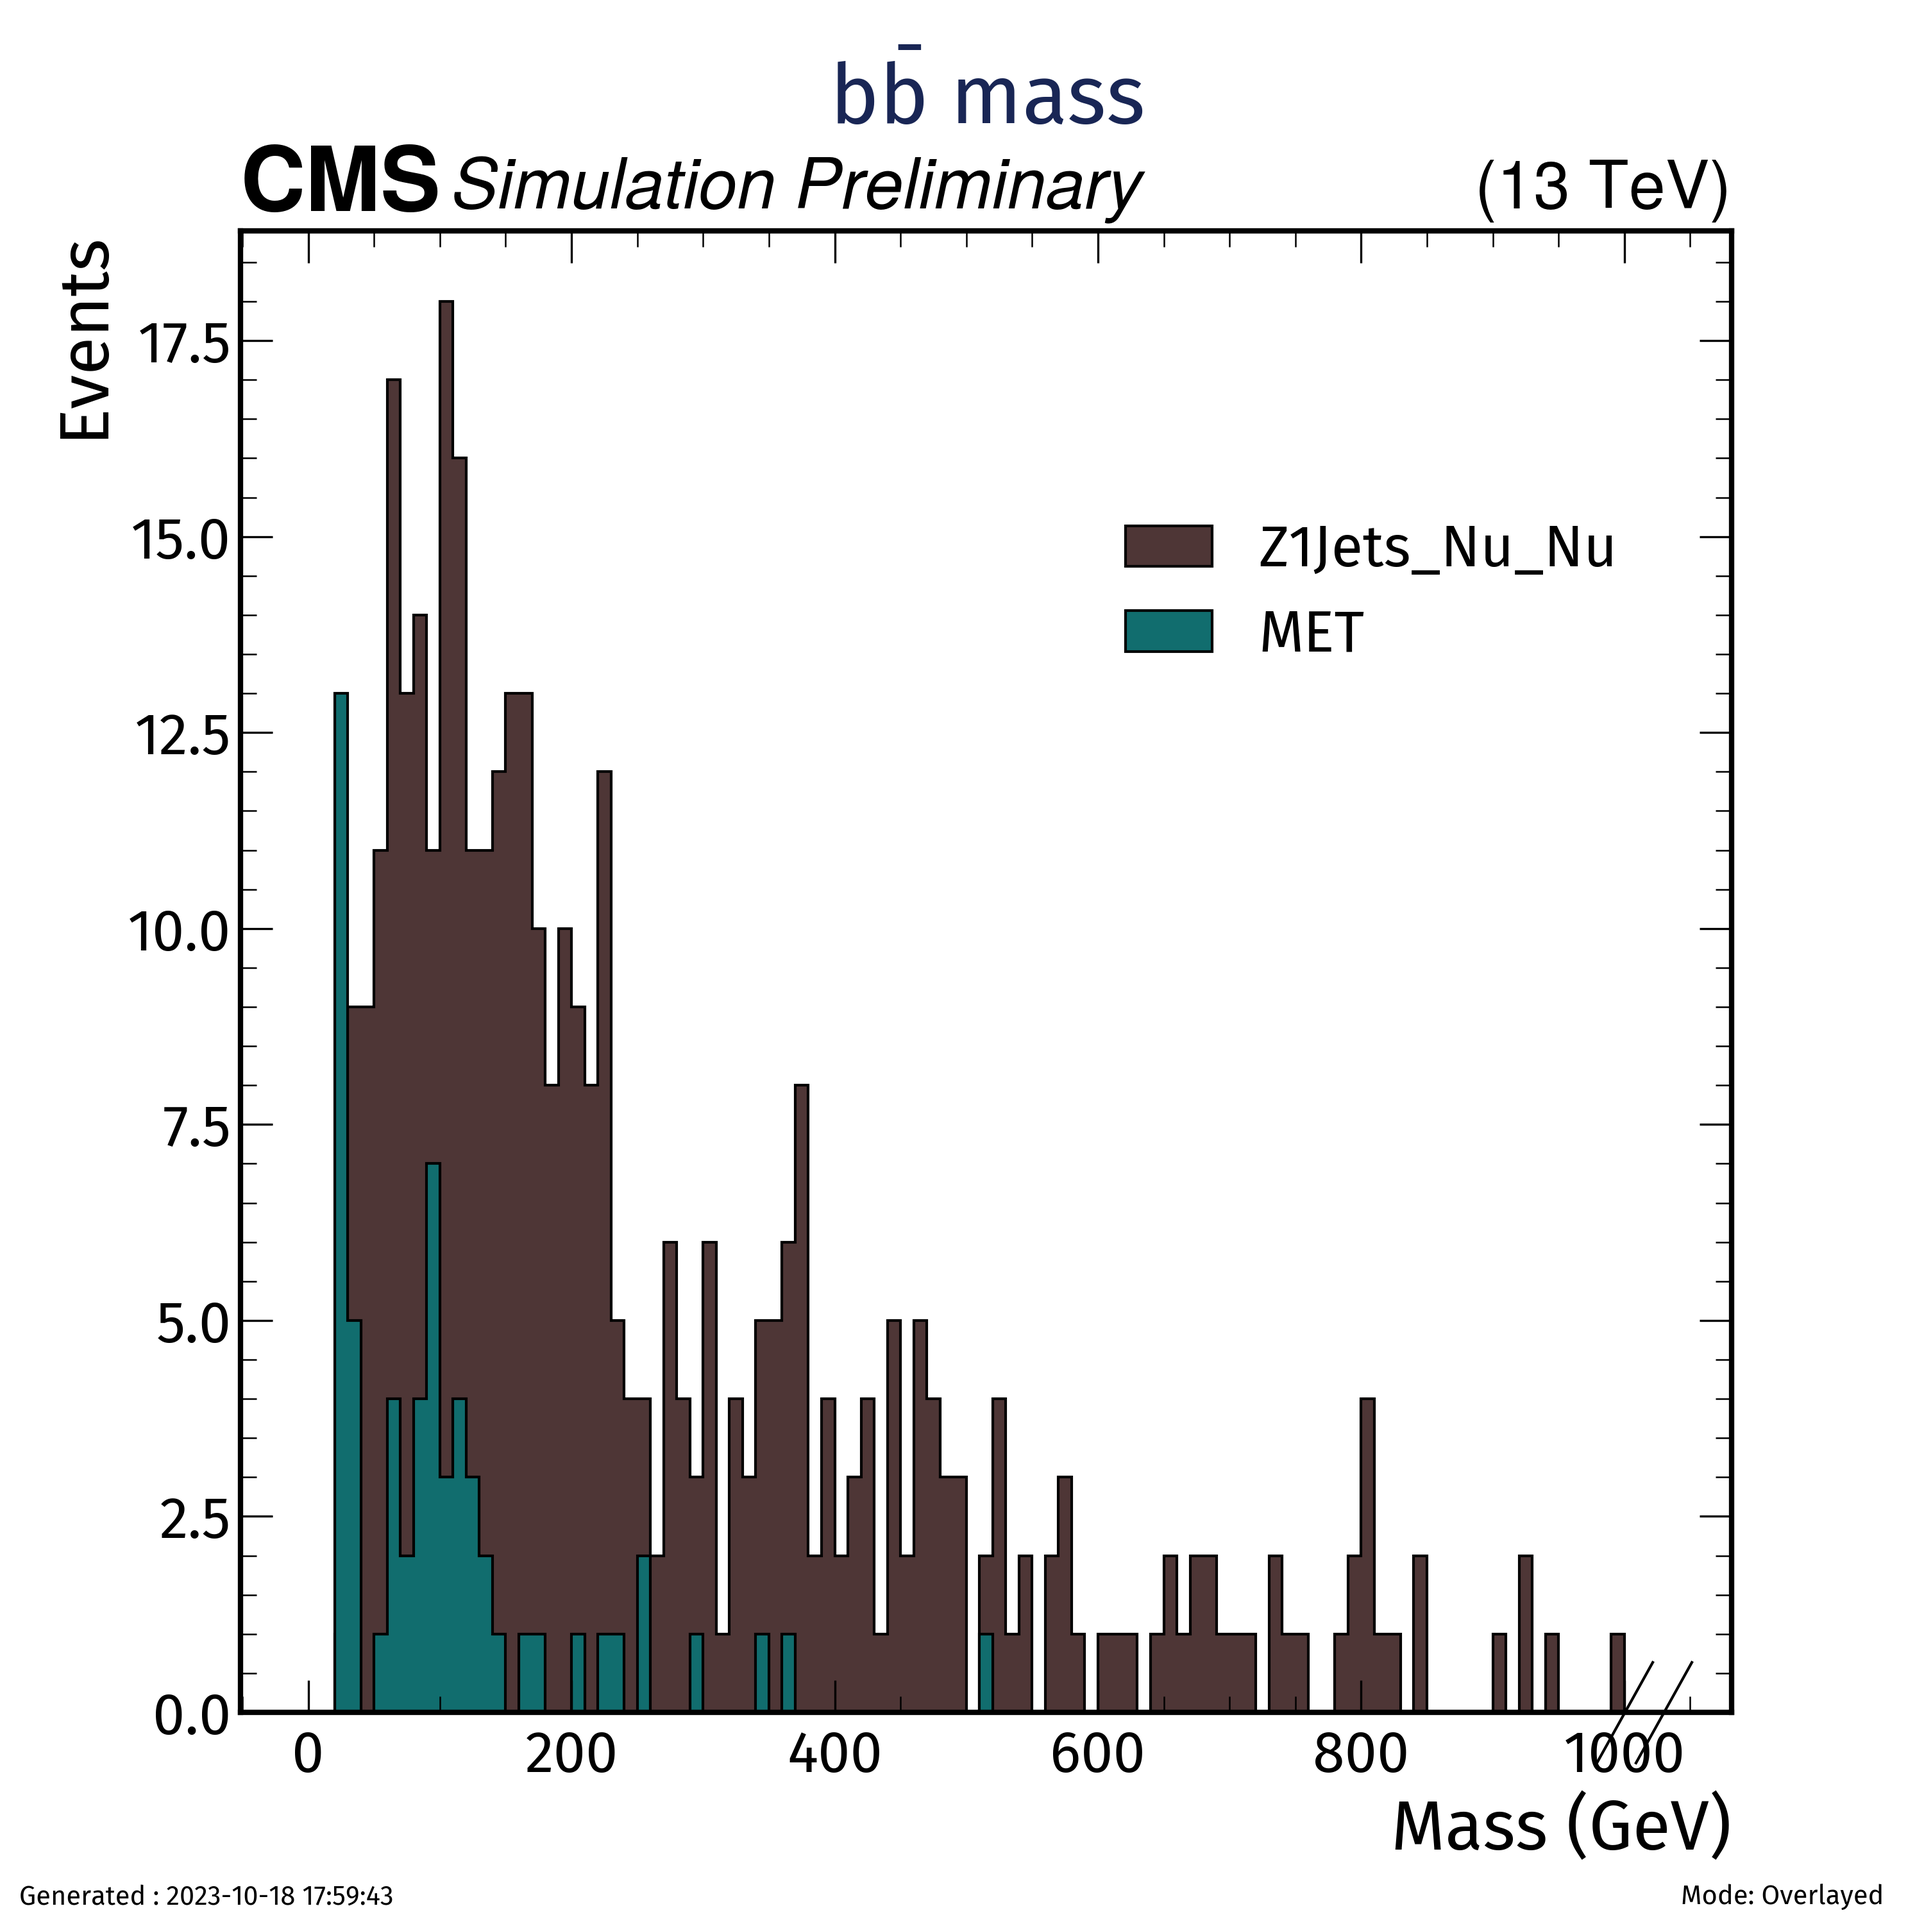
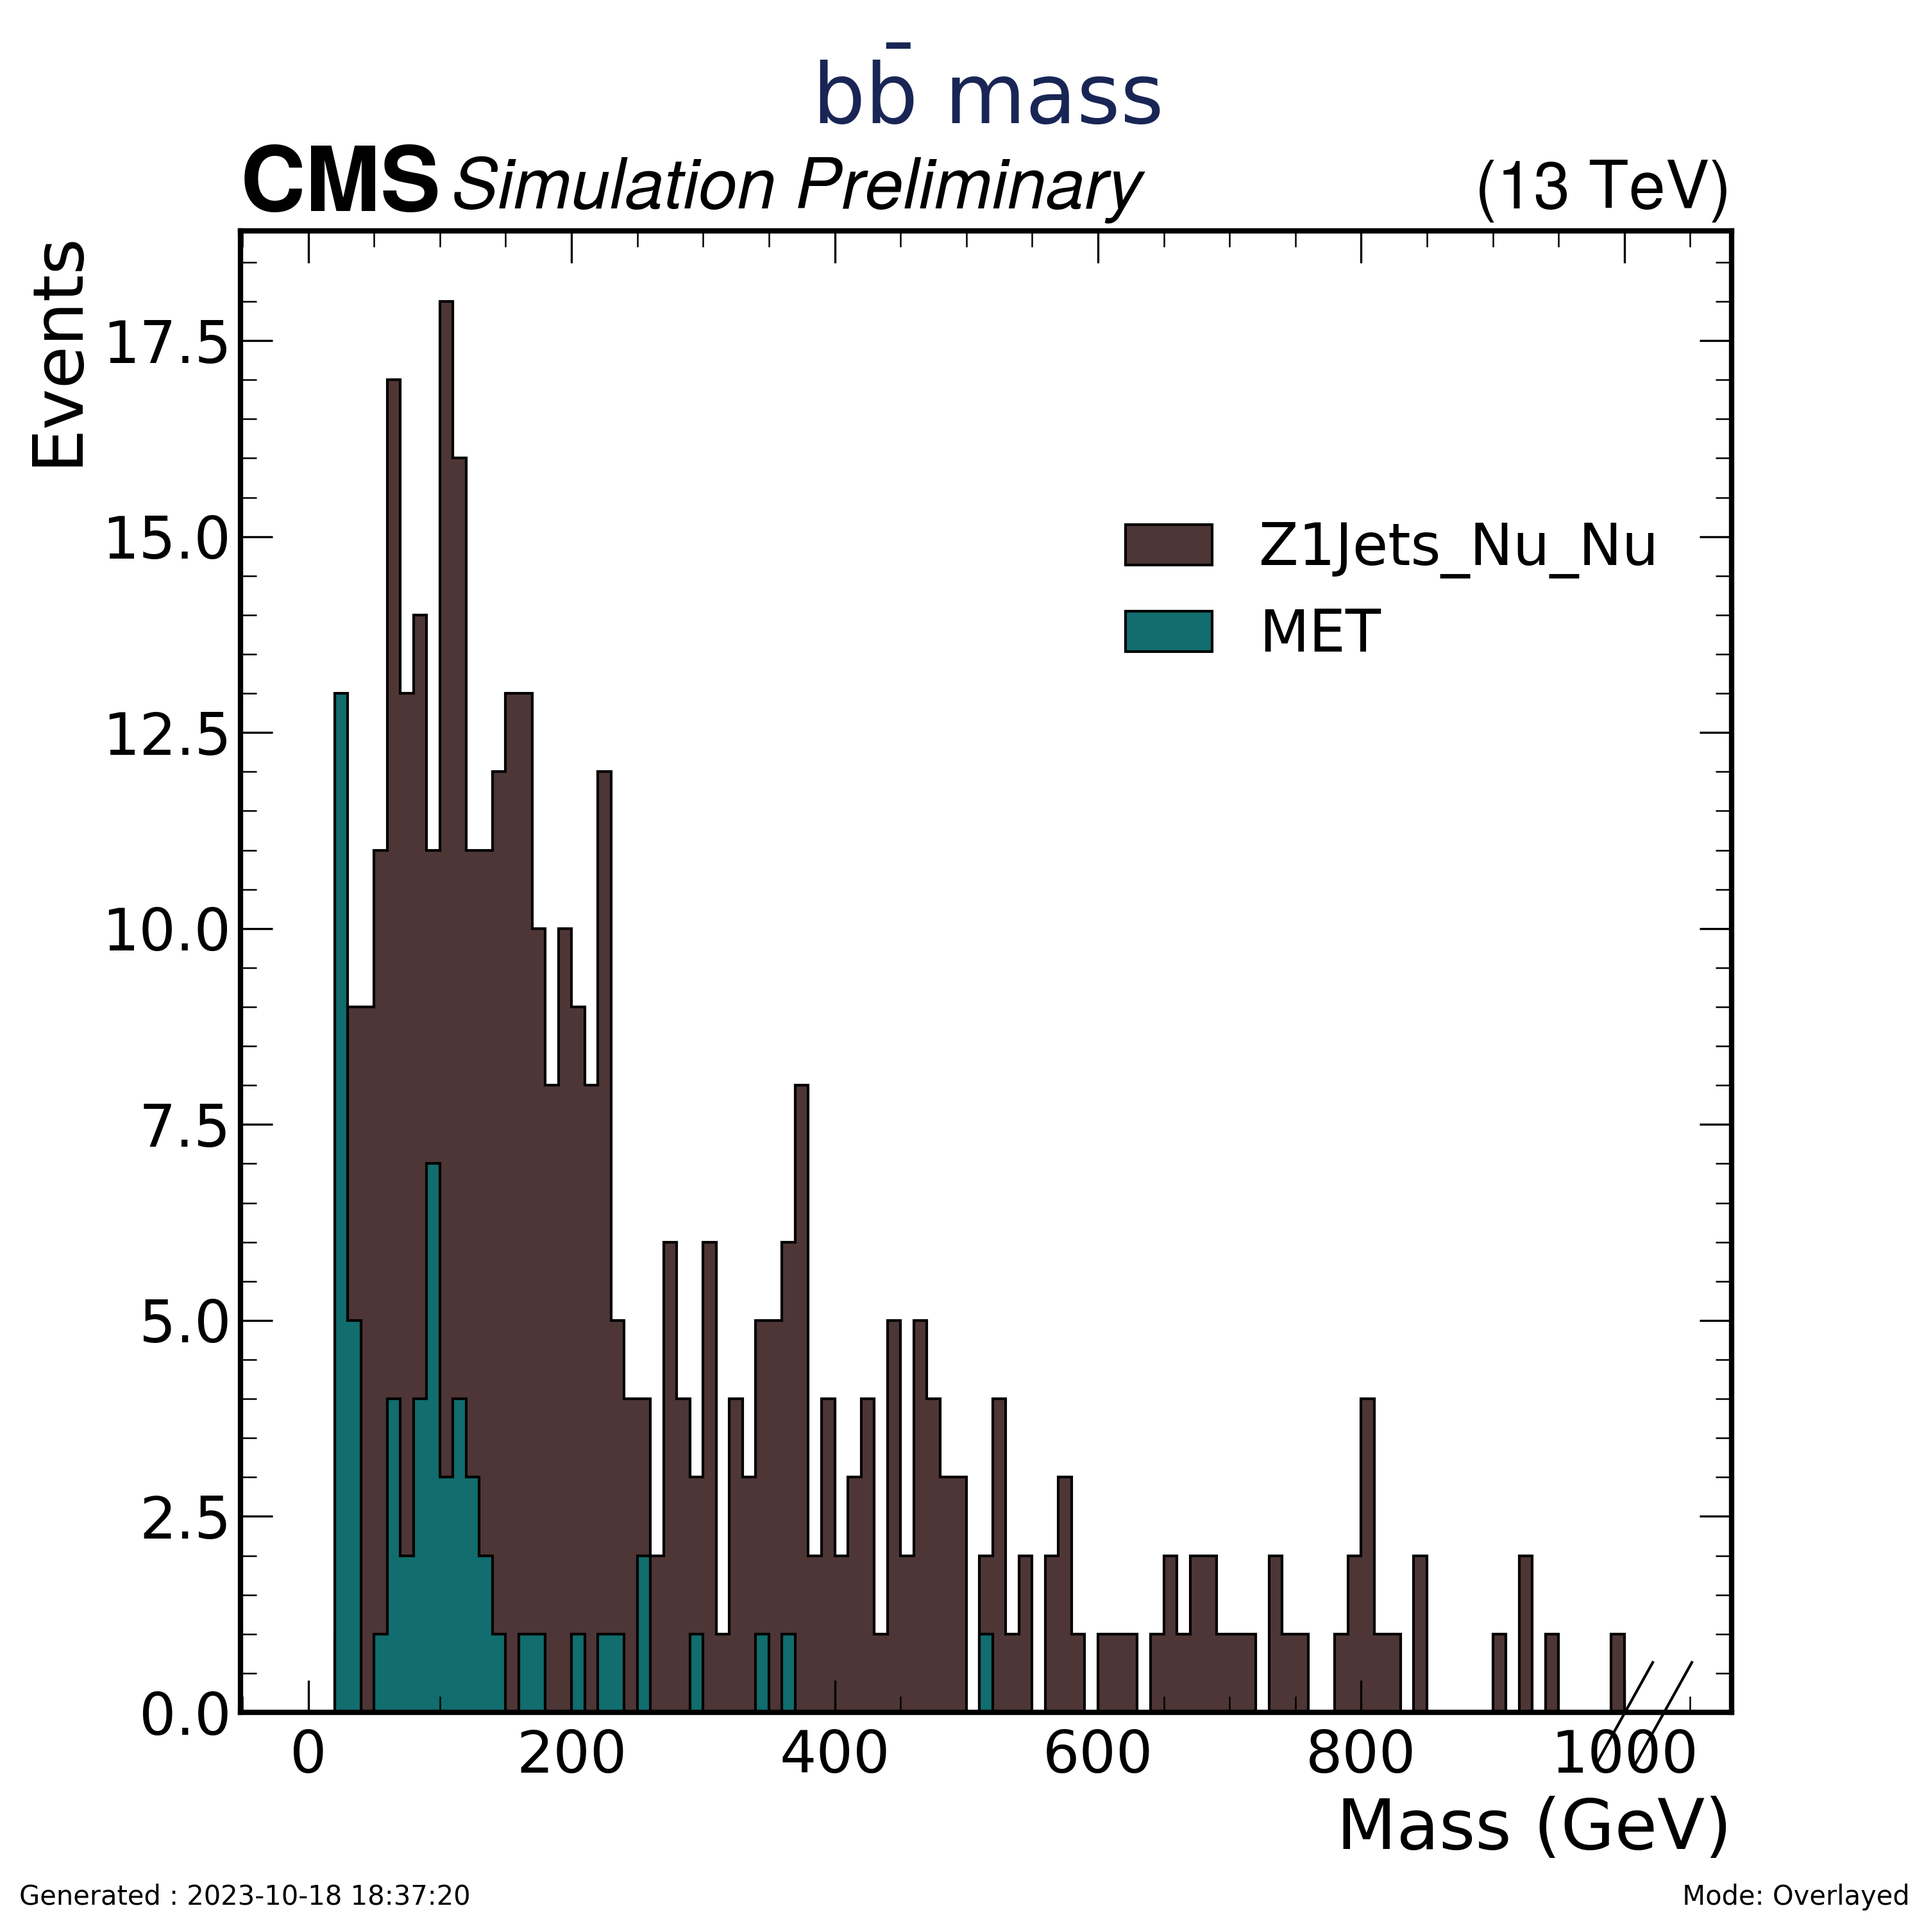
Automated Commit

diff --git a/Backgrounds/plotter_Zjetsnunu.py b/Backgrounds/plotter_Zjetsnunu.py
@@ -18,8 +18,8 @@ from monoHbbtools.Utilities import get_timestamp
 import numpy as np
 import os
 #plt.style.use(hep.style.CMS)
-#hep.style.use(["CMS","fira","firamath"])
-hep.style.use("CMSTex")
+hep.style.use(["CMS","fabiola","firamath"])
+#hep.style.use("CMSTex")
 import rich
 
 #Load the output
@@ -45,7 +45,7 @@ def plot(filename):
             lw=1,
             ax=ax
         )
-        hep.cms.label("Preliminary", data= "Data" in filename)
+        hep.cms.label("Preliminary", data= key.startswith("MET"))
         ax.set_ylabel("Events")
         ax.set_xlabel("Mass (GeV)")
         ax.set_title(f"{key} : Dijet mass",pad=35,  fontsize= "20")
@@ -84,7 +84,7 @@ def combined_plot(filename):
     hep.cms.label("Preliminary", data= False)
     ax.set_ylabel("Events")
     ax.set_xlabel("Mass (GeV)")
-    ax.set_title(r"$b \bar{b} $ mass",pad=40, color="#192655")
+    ax.set_title(r"$b \bar{b}$ mass",pad=40, color="#192655")
     fig.text(0.01,0.01,"Generated : "+get_timestamp(), fontsize = "10")
     fig.text(0.87,0.01," Mode: Overlayed", fontsize = "10")
     fig.legend(loc= (0.57,0.64))
